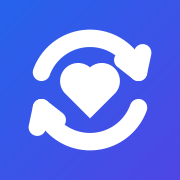
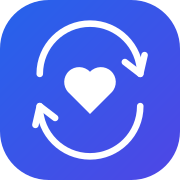
Thin ShareStuff mark strokes and refresh social OG image
The loop strokes were too heavy at nav/favicon sizes, which made the
mark look muddy. Redraw in a native 48×48 grid with thinner strokes,
sync favicons, and put the same mark on the social card / og-image
(replacing the old hamburger icon and oversized PNG).

diff --git a/app/components/ShareStuffLogo.tsx b/app/components/ShareStuffLogo.tsx
@@ -2,7 +2,9 @@ import { useId } from "react";
 
 /**
  * Brand mark: an item circulating between neighbours (the loop) around the
- * community it serves (the heart). Kept in sync with /public/favicon.svg.
+ * community it serves (the heart). Drawn in a native 48×48 grid with thin
+ * strokes so it stays crisp at favicon and nav sizes. Kept in sync with
+ * /public/favicon.svg.
  */
 export function ShareStuffMark({
   className = "h-10 w-10",
@@ -37,23 +39,24 @@ export function ShareStuffMark({
 
       <rect width="48" height="48" rx="13" fill={`url(#${gradientId})`} />
 
-      <g transform="translate(3.36 3.36) scale(1.72)">
-        <path
-          d="M12 16.4 8.05 12.45A2.8 2.8 0 0 1 12 8.5A2.8 2.8 0 0 1 15.95 12.45Z"
-          fill="#ffffff"
-        />
-        <g
-          stroke="#ffffff"
-          strokeWidth="2.7"
-          strokeLinecap="round"
-          strokeLinejoin="round"
-          fill="none"
-        >
-          <path d="M4.48 9.26A8 8 0 0 1 19.52 9.26" />
-          <path d="M20.17 6.23 19.52 9.26 17.08 7.35" />
-          <path d="M19.52 14.74A8 8 0 0 1 4.48 14.74" />
-          <path d="M3.83 17.77 4.48 14.74 6.92 16.65" />
-        </g>
+      {/* Heart — sized to leave air around the loop at favicon/nav sizes */}
+      <path
+        d="M24 30.4 18.2 24.6A3.95 3.95 0 0 1 24 19.15a3.95 3.95 0 0 1 5.8 5.45Z"
+        fill="#ffffff"
+      />
+
+      {/* Sharing loop — thin stroke so joins stay crisp when scaled down */}
+      <g
+        stroke="#ffffff"
+        strokeWidth="1.75"
+        strokeLinecap="round"
+        strokeLinejoin="round"
+        fill="none"
+      >
+        <path d="M10.6 19.7A12.6 12.6 0 0 1 37.4 19.7" />
+        <path d="M38.55 14.7 37.4 19.7 33.3 16.55" />
+        <path d="M37.4 28.3A12.6 12.6 0 0 1 10.6 28.3" />
+        <path d="M9.45 33.3 10.6 28.3 14.7 31.45" />
       </g>
     </svg>
   );
